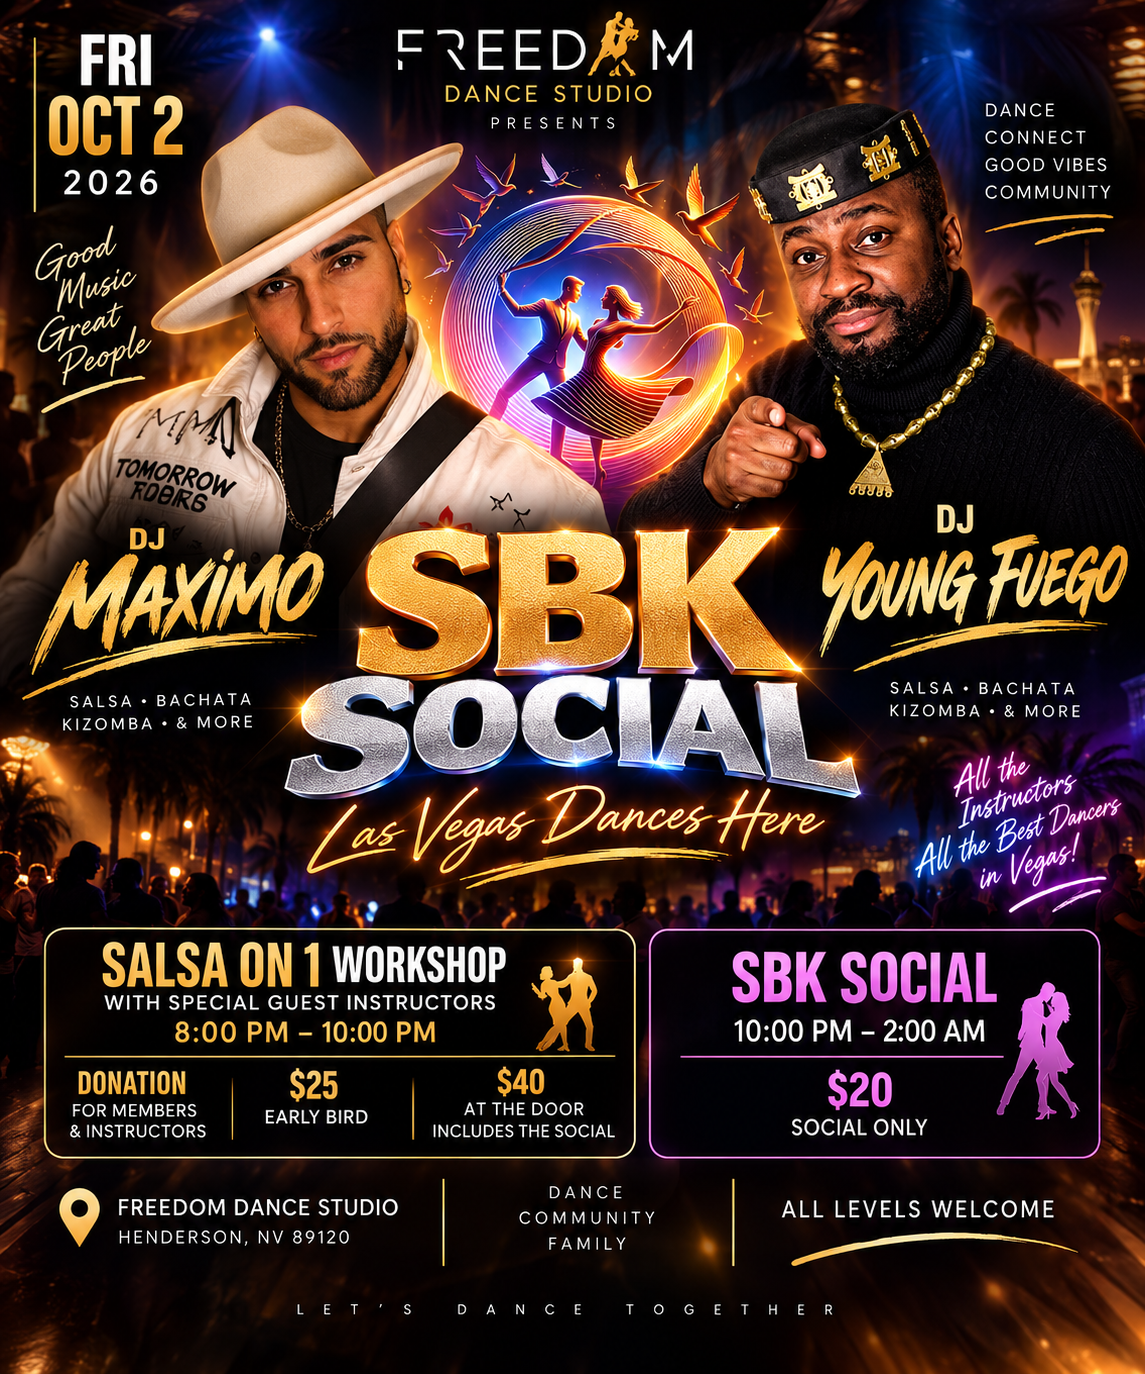
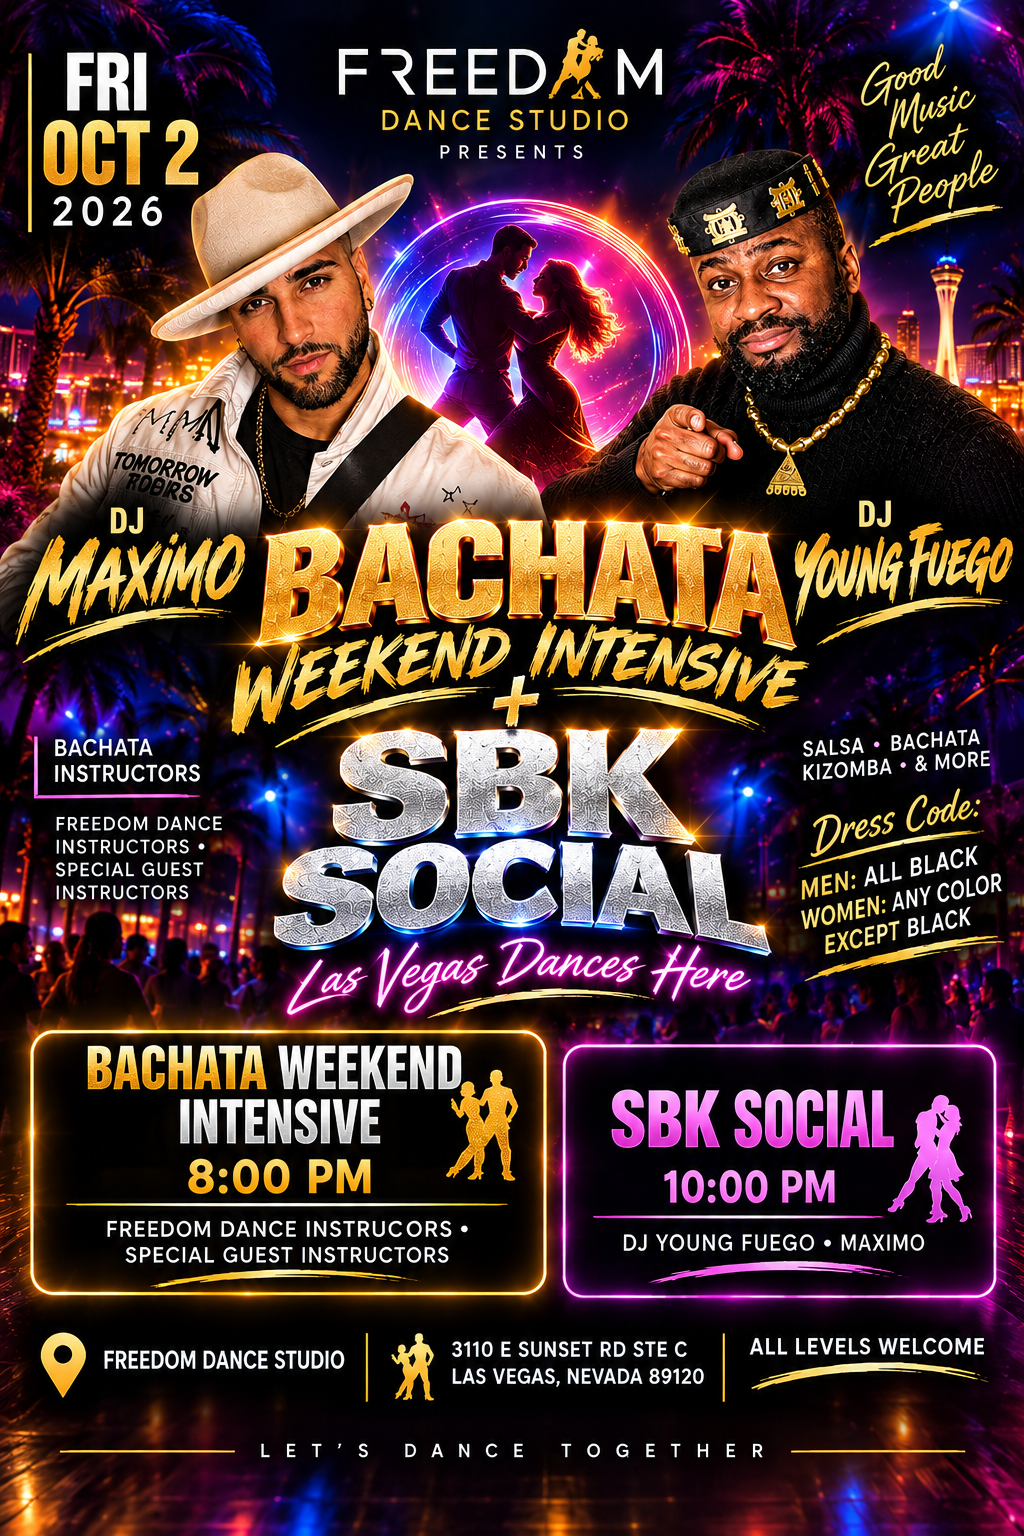
i fix the bugs....................

diff --git a/src/data/eventsData.js b/src/data/eventsData.js
@@ -109,7 +109,7 @@ export const events = [
 
     date: "October 2, 2026",
 
-    time: "Workshop + Social",
+    time: "Bachata Intensive 8:00 PM • Social 10:00 PM",
 
     image: social,
 
@@ -118,18 +118,19 @@ export const events = [
     location: "Freedom Dance Studio",
 
     workshop: {
-      title: "Salsa On 1 Workshop",
-      instructor: "Special Guest Instructors",
-      time: "Before the Social",
+      title: "Bachata Weekend Intensive",
+      instructor: "Freedom Dance Instructors • Special Guest Instructors",
+      time: "8:00 PM",
     },
 
     social: {
-      title: "SBK Social",
+      title: "Freedom Dance SBK Social",
       musicBy: "DJ Young Fuego • Maximo",
+      time: "10:00 PM",
     },
 
     description:
-      "Our next Freedom Dance SBK Social is October 2! Start the night with a Salsa On 1 workshop taught by amazing instructors, followed by an incredible night of Salsa, Bachata, Kizomba and more. Dance with Freedom Dance Studio instructors and some of the best dancers in Las Vegas, with music by DJ Young Fuego and Maximo.",
+      "Join us Friday, October 2 for an exciting night of Bachata and SBK dancing at Freedom Dance Studio! The evening starts at 8:00 PM with our Bachata Weekend Intensive, followed by the Freedom Dance SBK Social at 10:00 PM. Dance the night away with Salsa, Bachata, Kizomba and more alongside Freedom Dance instructors, guest dancers, and the Las Vegas dance community. Music by DJ Young Fuego and Maximo. Dress Code: Men wear all black. Women may wear any color except black.",
 
     button: "Get Your Ticket",
 
